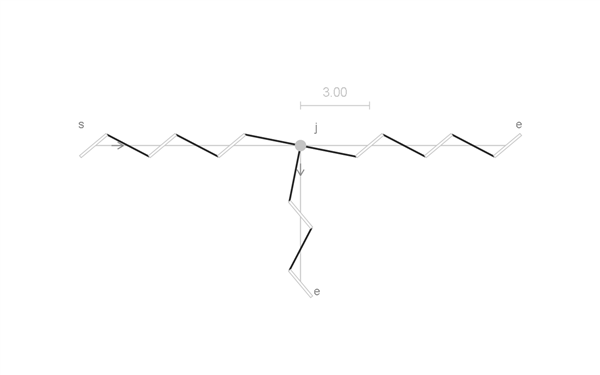
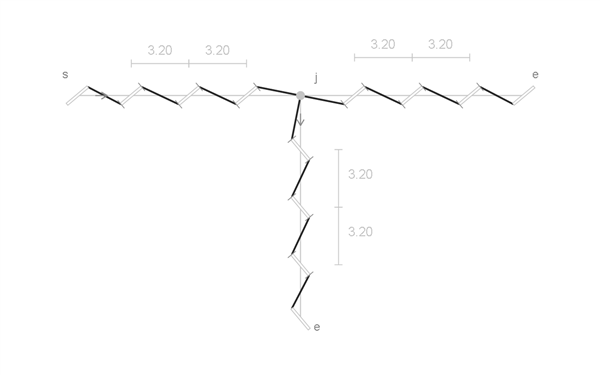
Extend T-junction arms and illustrate residual redistribution

diff --git a/examples/illustrated/README.md b/examples/illustrated/README.md
@@ -114,7 +114,7 @@ The straight and curved portions use one slit at their common tangent. Revealing
 
 ### Share the branching junction: A9
 
-Reserve one round hole and its nominal neighbours before filling the arms. `ILL-JUNCTION`.
+Four slits on each arm approach one shared round hole. Keep the endpoints and nominal junction neighbours fixed; split each $0.4\,\mathrm{mm}$ residual across two $3.20\,\mathrm{mm}$ gaps. `ILL-JUNCTION`.
 
 ![A T junction shares one hole with nominal neighbours on each arm](assets/axiom-junction.gif)
 

diff --git a/docs/PITCH_skeleton.md b/docs/PITCH_skeleton.md
@@ -181,6 +181,7 @@
 - A through-line contributes two arms; a T has three and an X four
 - Three or more arms share one round hole at the guide intersection
 - Each arm's first neighbour is one nominal pitch from that hole
+- Keep those neighbours fixed while distributing each arm's residual through its free gaps
 
 ![A9: a T junction reserves one hole and its nominal neighbours](../examples/illustrated/assets/axiom-junction.gif)
 
